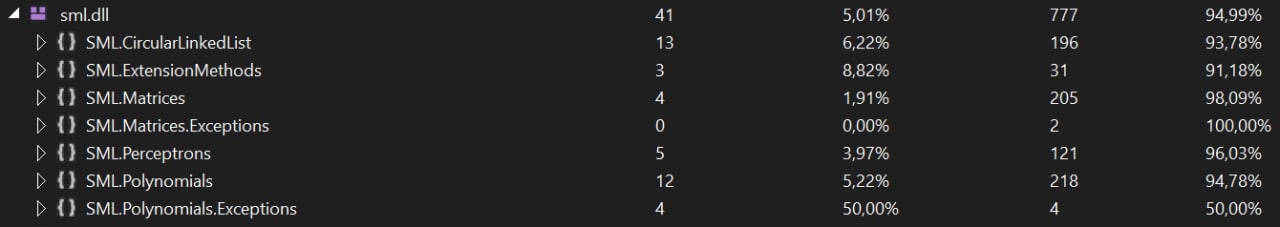
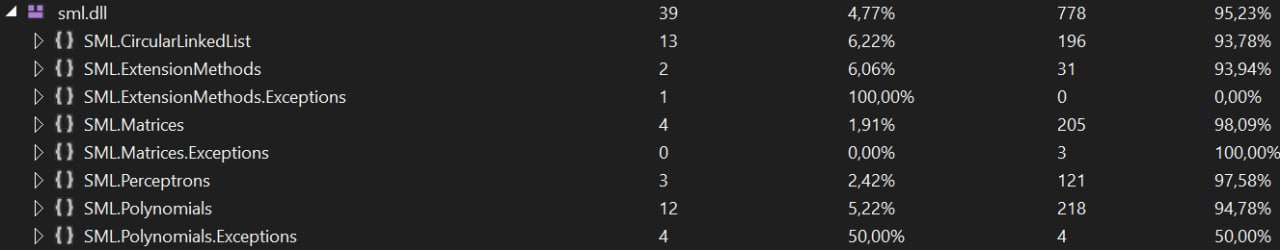
📝: update README.md

diff --git a/README.md b/README.md
@@ -19,7 +19,7 @@ SML - Small Math Library for .NET. I decided to create this library, because som
 
 [![Theme](https://img.shields.io/badge/Theme-Math-blueviolet)](https://img.shields.io/badge/Theme-Math-blueviolet)
 [![Language](https://img.shields.io/badge/Language-CSharp-blueviolet)](https://img.shields.io/badge/Language-CSharp-blueviolet)
-![Code Coverage](https://img.shields.io/badge/coverage-90%25-brightgreen)
+![Code Coverage](https://img.shields.io/badge/Code-coverage-95,23%25-brightgreen)
 
 ---
 
